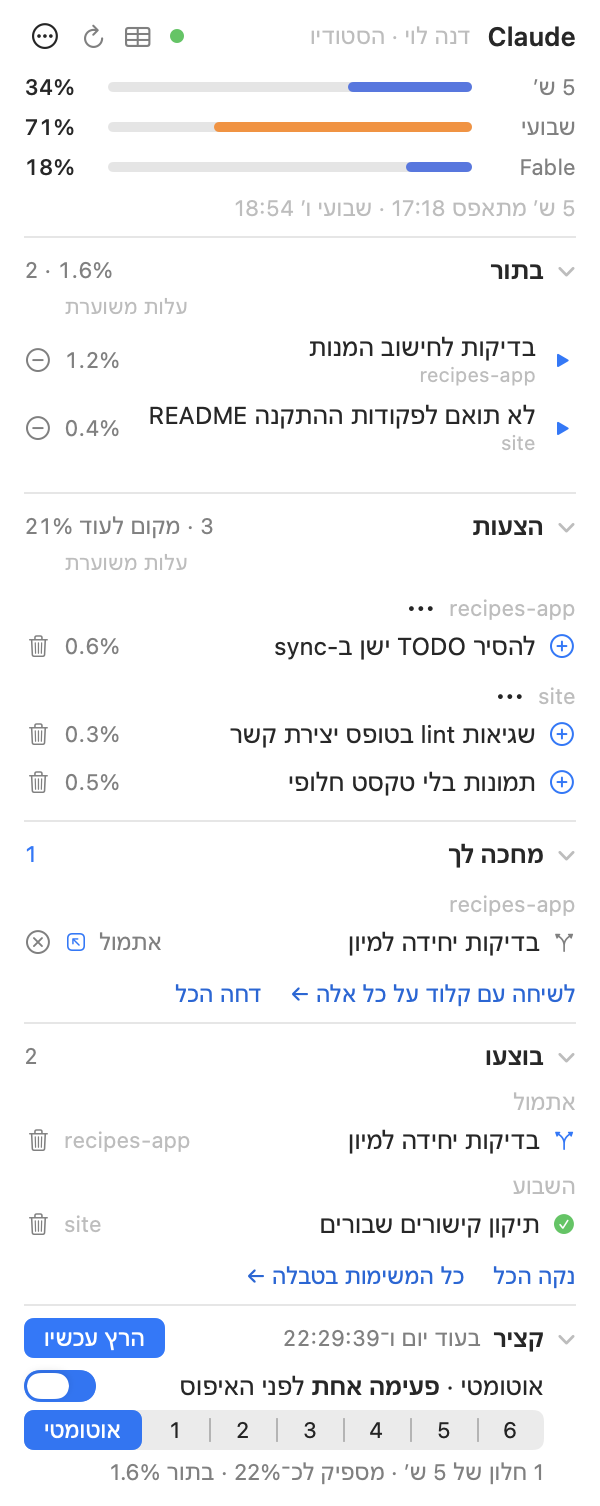
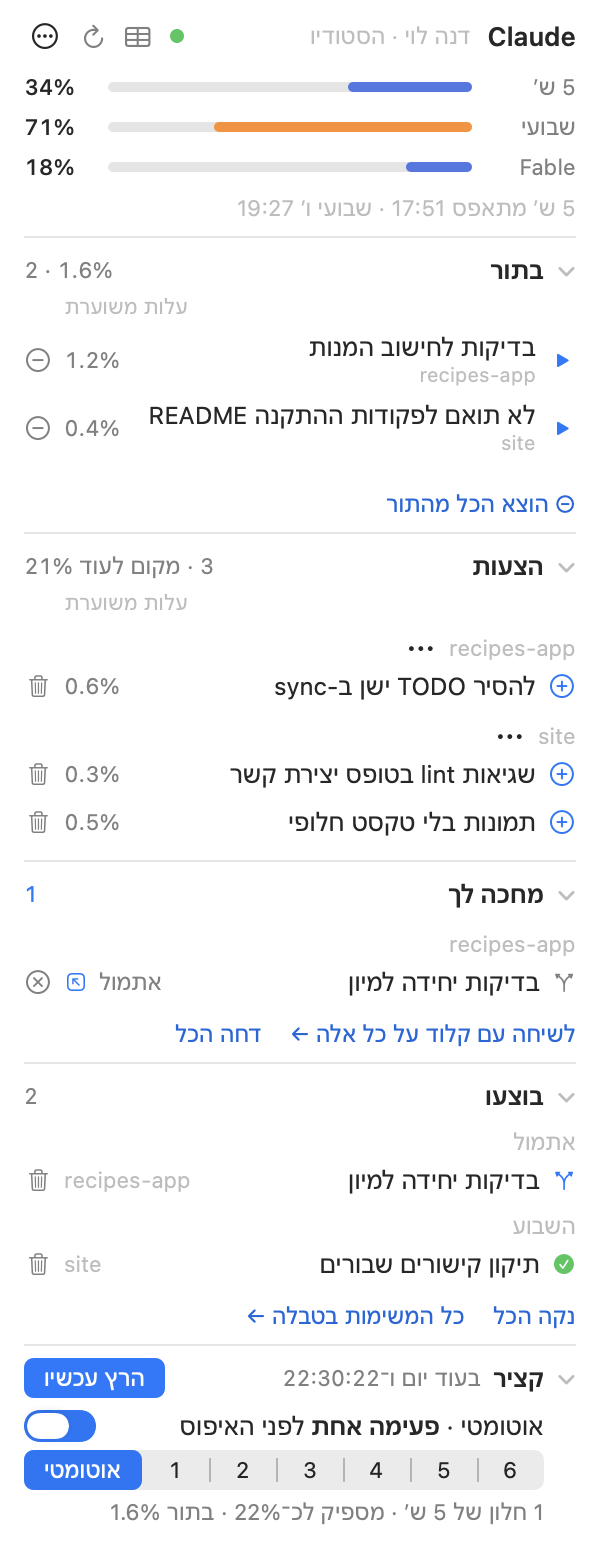
Take everything out of the queue at once; the queue's scroller off the buttons
The queue was the last list on the system scroller, which sat over the ⊖
buttons; it now scrolls in ScrollingList like the others, its indicator in a
gutter of its own. "⊖ Take everything out of the queue" under the list (and
"Take them all out" on the window's Queue tab) asks inline, then
`queue-clear`: every open task goes back to the proposals and the owner's
dragged order is forgotten. Refused in unattended runs.

diff --git a/QuotaHarvest.swift b/QuotaHarvest.swift
@@ -1198,6 +1198,7 @@ protocol WidgetActions: AnyObject {
     func clearDone(_ task: HTask)
     func restoreDone(_ task: HTask)
     func clearAllDone()
+    func unqueueAll()
     func showAllTasks()
     func talk()
     func showHelp()
@@ -1275,6 +1276,8 @@ final class WidgetModel: ObservableObject {
     @Published var rejecting: String?
     /// "נקה הכל" under the done list, asking before it clears.
     @Published var confirmingClear = false
+    /// "הוצא הכל מהתור" under the queue, asking before it empties it.
+    @Published var confirmingUnqueue = false
     /// Why the last reject didn't go through, shown under the waiting list (and in the all-tasks window)
     /// until the next try or a dismiss.
     @Published var rejectProblem: String?
@@ -1287,6 +1290,7 @@ final class WidgetModel: ObservableObject {
         }
         if rejecting != nil { rejecting = nil }
         if confirmingClear { confirmingClear = false }
+        if confirmingUnqueue { confirmingUnqueue = false }
     }
 
     var harvestActive: Bool { running || detachedRun || externalRun }
@@ -1440,8 +1444,9 @@ struct PanelView: View {
             EmptyLine(text: L("התור ריק — ⊕ ליד הצעה מכניס אותה לתור", "The queue is empty — ⊕ next to a proposal puts it in"))
         } else {
             PctCaption()
+            // The list's own slim scroller, in a gutter of its own: the system one sat over the ⊖ buttons.
             if m.listing.queue.count > 8 {
-                ScrollView { orderedQueue }.frame(height: 220)
+                ScrollingList(height: 220) { orderedQueue }
             } else {
                 orderedQueue
             }
@@ -1450,6 +1455,16 @@ struct PanelView: View {
                     m.actions?.resetQueueOrder()
                 }
                 .buttonStyle(.link).font(.system(size: 11)).padding(.top, 3)
+            }
+            if m.confirmingUnqueue {
+                ConfirmLine(text: L("להוציא את כל ה־\(m.listing.queue.count) מהתור? הן חוזרות להצעות ולא ירוצו עד שתחזיר אותן.",
+                                    "Take all \(m.listing.queue.count) out of the queue? They go back to the proposals and won't run until you queue them again."),
+                            action: L("הוצא", "Take out"), onConfirm: { m.actions?.unqueueAll() },
+                            onCancel: { m.confirmingUnqueue = false })
+            } else {
+                Button(L("⊖ הוצא הכל מהתור", "⊖ Take everything out of the queue")) { m.confirmingUnqueue = true }
+                    .buttonStyle(.link).font(.system(size: 11)).padding(.top, 3)
+                    .help(L("כל המשימות חוזרות להצעות; ⊕ ליד הצעה מחזיר אותה", "Every task goes back to the proposals; ⊕ next to one brings it back"))
             }
         }
     }
@@ -1527,15 +1542,10 @@ struct PanelView: View {
                 DoneRow(task: t, onOpen: { m.actions?.openDone(t) }, onClear: { m.actions?.clearDone(t) })
             }
             if m.confirmingClear {
-                HStack(spacing: 8) {
-                    Text(L("לנקות את \(m.listing.done.count) מהרשימה? הענפים נשארים.",
-                           "Clear all \(m.listing.done.count) from the list? Branches stay."))
-                        .font(.system(size: 11)).foregroundStyle(.secondary).fixedSize(horizontal: false, vertical: true)
-                    Spacer(minLength: 4)
-                    Button(L("נקה", "Clear")) { m.actions?.clearAllDone() }.controlSize(.small)
-                    Button(L("ביטול", "Cancel")) { m.confirmingClear = false }.controlSize(.small)
-                }
-                .padding(.top, 4)
+                ConfirmLine(text: L("לנקות את \(m.listing.done.count) מהרשימה? הענפים נשארים.",
+                                    "Clear all \(m.listing.done.count) from the list? Branches stay."),
+                            action: L("נקה", "Clear"), onConfirm: { m.actions?.clearAllDone() },
+                            onCancel: { m.confirmingClear = false })
             } else {
                 HStack(spacing: 14) {
                     Button(L("נקה הכל", "Clear all")) { m.confirmingClear = true }
@@ -2236,6 +2246,24 @@ struct RejectForm: View {
     }
 }
 
+/// A bulk action's question, in place of the link that asked it — no modal alert.
+struct ConfirmLine: View {
+    let text: String
+    let action: String
+    let onConfirm: () -> Void
+    let onCancel: () -> Void
+
+    var body: some View {
+        HStack(spacing: 8) {
+            Text(text).font(.system(size: 11)).foregroundStyle(.secondary).fixedSize(horizontal: false, vertical: true)
+                .frame(maxWidth: .infinity, alignment: .leading)
+            Button(action, action: onConfirm).controlSize(.small)
+            Button(L("ביטול", "Cancel"), action: onCancel).controlSize(.small)
+        }
+        .padding(.top, 4)
+    }
+}
+
 /// Why something the owner asked for didn't happen — stays until dismissed or the next try.
 struct ProblemLine: View {
     let text: String
@@ -2378,10 +2406,15 @@ final class AllTasksModel: ObservableObject {
     @Published var search = ""
     @Published var showCleared = false
     @Published var selection: String? {
-        didSet { if rejecting != nil && rejecting != selection { rejecting = nil } }
+        didSet {
+            if rejecting != nil && rejecting != selection { rejecting = nil }
+            if confirmingUnqueue && selection != nil { confirmingUnqueue = false }
+        }
     }
     /// The reject form in the details: a row's key, or "all" for everything that waits.
     @Published var rejecting: String?
+    /// "הוצא את כולן מהתור" on the queue tab, asking in the details before it empties the queue.
+    @Published var confirmingUnqueue = false
     @Published var sortOrder = [KeyPathComparator(\TaskLine.stage), KeyPathComparator(\TaskLine.runOrder),
                                 KeyPathComparator(\TaskLine.age)]
     /// Off for snapshots, so rendering a preview never changes the owner's choice of tab.
@@ -2509,6 +2542,11 @@ struct AllTasksView: View {
                 ForEach(TaskFilter.allCases) { f in Text("\(f.title) \(t.count(f))").tag(f) }
             }
             .pickerStyle(.segmented).labelsHidden().fixedSize()
+            if t.filter == .queue && !m.listing.queue.isEmpty {
+                Button(L("הוצא את כולן מהתור", "Take them all out")) { t.selection = nil; t.confirmingUnqueue = true }
+                    .controlSize(.small)
+                    .help(L("כל המשימות חוזרות להצעות; \"הכנס לתור\" מחזיר כל אחת", "Every task goes back to the proposals; \"Put in the queue\" brings each back"))
+            }
             if t.filter == .waiting && !m.listing.needsYou.isEmpty {
                 Button(L("דחה את כולן", "Reject them all")) { t.selection = nil; t.rejecting = "all" }
                     .controlSize(.small)
@@ -2616,7 +2654,14 @@ struct AllTasksView: View {
                 ProblemLine(text: problem) { m.rejectProblem = nil }
                     .padding(EdgeInsets(top: 4, leading: 14, bottom: 0, trailing: 14))
             }
-            if t.rejecting == "all" {
+            if t.confirmingUnqueue {
+                ConfirmLine(text: L("להוציא את כל ה־\(m.listing.queue.count) מהתור? הן חוזרות להצעות ולא ירוצו עד שתחזיר אותן.",
+                                    "Take all \(m.listing.queue.count) out of the queue? They go back to the proposals and won't run until you queue them again."),
+                            action: L("הוצא", "Take out"),
+                            onConfirm: { t.confirmingUnqueue = false; m.actions?.unqueueAll() },
+                            onCancel: { t.confirmingUnqueue = false })
+                    .padding(EdgeInsets(top: 10, leading: 14, bottom: 10, trailing: 14))
+            } else if t.rejecting == "all" {
                 RejectForm(blocked: false, count: m.listing.needsYou.count,
                            onReject: { m.actions?.rejectAllWaiting(reason: $0) },
                            onCancel: { t.rejecting = nil })
@@ -2742,6 +2787,7 @@ struct HelpView: View {
             "בכותרת: כמה משימות, וכמה אחוזים כולן יחד.",
             "**הסדר ברשימה הוא סדר הביצוע** — העליונה רצה ראשונה. בלי התערבות שלך הסדר הוא לפי חשיבות, ובאותה חשיבות הגדולה קודם.",
             "**גרירה:** תופסים משימה ומשחררים על משימה אחרת — היא נוחתת מעליה; מתחת לאחרונה — היא עוברת לסוף. **\"חזרה לסדר האוטומטי\"** מבטל את מה שגררת.",
+            "**\"⊖ הוצא הכל מהתור\"** מתחת לרשימה — כל המשימות חוזרות להצעות בבת אחת (אחרי שאלה קצרה במקום), ו־⊕ מחזיר כל אחת.",
         ]),
         ("הצעות", [
             "משימות שעוד לא אישרת: רעיונות שסוכן רשם כשעבד לבד, או משימות שהשהית. הן לא ירוצו.",
@@ -2768,7 +2814,7 @@ struct HelpView: View {
             "**כפתור הטבלה** בראש הווידג'ט (או **כל המשימות…** בתפריט ⋯, או \"כל המשימות בטבלה\" מתחת ל\"בוצעו\") פותח חלון עם כל המשימות מכל הפרויקטים, בטבלה אחת.",
             "למעלה: לשוניות עם מספרים — הכל, בתור, הצעות, מחכה לך, בוצעו, הוסרו (\"הכל\" הוא כל מה שלא הוסר) — חיפוש, ו\"**גם מה שנוקה**\" שמראה גם משימות שניקית מ\"בוצעו\".",
             "העמודות: מצב (במשימה שבתור — גם המקום שלה בתור), משימה, פרויקט, עדיפות, מורכבות, עלות משוערת, מתי נוספה, עדכון אחרון וענף. לחיצה על כותרת עמודה ממיינת לפיה.",
-            "**בחירת שורה** מראה למטה את הפרטים ואת מה שאפשר לעשות: להכניס לתור או להוציא, למחוק הצעה, לבדיקה ולמיזוג או לדחות, לפתוח את הסשן שביצע, לנקות או להחזיר ל\"בוצעו\", ולפתוח את BACKLOG.md. אותן פעולות בלחיצה ימנית; לחיצה כפולה פותחת את הבדיקה או את הסשן. דחייה פותחת את אותו טופס סיבות כמו בווידג'ט, ובלשונית \"מחכה לך\" יש גם \"דחה את כולן\". להריץ — רק מהווידג'ט.",
+            "**בחירת שורה** מראה למטה את הפרטים ואת מה שאפשר לעשות: להכניס לתור או להוציא, למחוק הצעה, לבדיקה ולמיזוג או לדחות, לפתוח את הסשן שביצע, לנקות או להחזיר ל\"בוצעו\", ולפתוח את BACKLOG.md. אותן פעולות בלחיצה ימנית; לחיצה כפולה פותחת את הבדיקה או את הסשן. דחייה פותחת את אותו טופס סיבות כמו בווידג'ט, בלשונית \"מחכה לך\" יש גם \"דחה את כולן\", ובלשונית \"בתור\" — \"הוצא את כולן מהתור\". להריץ — רק מהווידג'ט.",
         ]),
         ("קציר (בתחתית)", [
             "ספירה לאחור עד שהקציר האוטומטי מתחיל — רק כשהמתג \"אוטומטי\" דלוק. הוא רץ ב**פעימות**: כל פעימה היא חלון של 5 שעות, והאחרונה נגמרת לפני האיפוס השבועי. כמה פעימות — בוחרים בשורה (1–6), או \"אוטומטי\": כמה שצריך כדי לנצל את מה שנשאר מהשבוע על מה שבתור.",
@@ -2822,6 +2868,7 @@ struct HelpView: View {
             "In the header: how many tasks, and how many percent they come to together.",
             "**The list's order is the order they run in** — the top one runs first. Left alone, it's by priority, and within a priority the bigger task first.",
             "**Dragging:** grab a task and drop it on another one — it lands above it; below the last one — it goes last. **\"Back to the automatic order\"** undoes what you dragged.",
+            "**\"⊖ Take everything out of the queue\"** under the list — every task goes back to the proposals at once (after a short question in place), and ⊕ brings each one back.",
         ]),
         ("Proposals", [
             "Tasks you haven't approved yet: ideas an agent noted while working on its own, or tasks you paused. They don't run.",
@@ -2848,7 +2895,7 @@ struct HelpView: View {
             "**The table button** at the top of the widget (or **All tasks…** in the ⋯ menu, or \"All tasks in a table\" under Done) opens a window with every task of every project in one table.",
             "At the top: tabs with counts — All, Queue, Proposals, Waiting, Done, Removed (\"All\" is everything not removed) — a search, and **\"Show cleared\"**, which also shows the tasks you cleared from Done.",
             "The columns: status (for a queued task, also its place in the queue), task, project, priority, complexity, estimated cost, when it was added, the last update and the branch. Clicking a column's title sorts by it.",
-            "**Selecting a row** shows its details below, with what can be done: put it in the queue or take it out, delete a proposal, review and merge or reject, open the session that did it, clear it from Done or bring it back, and open BACKLOG.md. The same actions are on a right-click; a double-click opens the review or the session. Rejecting opens the same reasons form as in the widget, and the Waiting tab also has \"Reject them all\". Running happens only from the widget.",
+            "**Selecting a row** shows its details below, with what can be done: put it in the queue or take it out, delete a proposal, review and merge or reject, open the session that did it, clear it from Done or bring it back, and open BACKLOG.md. The same actions are on a right-click; a double-click opens the review or the session. Rejecting opens the same reasons form as in the widget, the Waiting tab also has \"Reject them all\", and the Queue tab \"Take them all out\". Running happens only from the widget.",
         ]),
         ("Harvest (at the bottom)", [
             "A countdown to the start of the automatic harvest — only while the \"automatic\" switch is on. It runs in **pulses**: each pulse is one 5-hour window, and the last one ends before the weekly reset. How many — you choose in the row (1–6), or \"Auto\": as many as it takes to spend what's left of the week on what's queued.",
@@ -5076,6 +5123,18 @@ final class AppDelegate: NSObject, NSApplicationDelegate, WidgetActions, UNUserN
         return what + ((reply?["error"] as? String) ?? L("המנוע לא ענה.", "the engine didn't answer."))
     }
 
+    /// "הוצא הכל מהתור", once its inline question is answered: every queued task back to the proposals.
+    func unqueueAll() {
+        model.confirmingUnqueue = false
+        allTasksModel.confirmingUnqueue = false
+        guard !model.listing.queue.isEmpty else { return }
+        var l = model.listing
+        l.proposals = l.queue + l.proposals
+        l.queue = []
+        model.listing = l
+        runEngine(["queue-clear"]) { [weak self] _ in self?.refreshListing() }
+    }
+
     /// "נקה הכל" under the done list, once its inline question is answered.
     func clearAllDone() {
         model.confirmingClear = false
@@ -5646,8 +5705,14 @@ final class AppDelegate: NSObject, NSApplicationDelegate, WidgetActions, UNUserN
     }
 
     /// `--rejecting [all]` on the snapshots: the reject form open — under the first waiting row, or for all.
+    /// `--confirming unqueue|clear`: the inline question of "הוצא הכל מהתור" / "נקה הכל".
     func snapshotForms() {
         let args = CommandLine.arguments
+        if let i = args.firstIndex(of: "--confirming"), i + 1 < args.count {
+            model.confirmingUnqueue = args[i + 1] == "unqueue"
+            model.confirmingClear = args[i + 1] == "clear"
+            allTasksModel.confirmingUnqueue = args[i + 1] == "unqueue"
+        }
         guard let i = args.firstIndex(of: "--rejecting") else { return }
         let all = i + 1 < args.count && args[i + 1] == "all"
         model.rejecting = all ? "all" : model.listing.needsYou.first?.id

diff --git a/harvest/home/bin/harvest.py b/harvest/home/bin/harvest.py
@@ -926,6 +926,27 @@ def cmd_queue_order(a):
           "queue": [task_key(t) for t in ordered_queue([t for t in tasks if t["status"] == "open"])]})
 
 
+def cmd_queue_clear(a):
+    """Empties the queue in one step: every queued (open) task goes back to the proposals, where it waits until
+    the owner queues it again, and the owner's dragged order goes with it. Only the owner: never from an
+    unattended run."""
+    if os.environ.get("HARVEST_UNATTENDED"):
+        fail("only the owner empties the queue")
+    moved = []
+    for repo in projects():
+        # One section at a time from a fresh read: adding a missing status line moves the lines below it.
+        while True:
+            lines, tasks = parse_backlog(repo)
+            t = next((t for t in tasks if (t["fields"].get("status") or "open") == "open"), None)
+            if t is None:
+                break
+            write_fields(repo, lines, t, {"status": "proposed"})
+            moved.append({"project": repo, "title": t["title"]})
+    if os.path.exists(QUEUE_ORDER):
+        os.remove(QUEUE_ORDER)
+    emit({"ok": True, "unqueued": moved})
+
+
 def cmd_set_status(a):
     repo = os.path.abspath(a.project)
     if a.status not in STATUSES:
@@ -2353,6 +2374,8 @@ def main():
     p.add_argument("keys", nargs="*", metavar="PROJECT::TITLE")
     p.add_argument("--reset", action="store_true")
     p.set_defaults(fn=cmd_queue_order)
+
+    sub.add_parser("queue-clear").set_defaults(fn=cmd_queue_clear)
 
     p = sub.add_parser("proposals")
     p.add_argument("project"); p.add_argument("state", choices=("on", "off"))

diff --git a/harvest/home/bin/test_harvest.py b/harvest/home/bin/test_harvest.py
@@ -115,6 +115,24 @@ class Harvest(unittest.TestCase):
         self.usage(reset_in_h=0.2)
         self.assertEqual(self.run_engine("plan")["reason"], "cutoff-near")
 
+    def test_the_owner_empties_the_queue(self):
+        self.add("One")
+        self.add("Two")
+        self.add("An idea", status="proposed")
+        self.run_engine("set-status", self.repo, "Two", "done", "--result", "בוצע")
+        self.add("Two")  # the same title again, queued: only this one moves
+        other = self.make_repo("beta")
+        self.run_engine("add", other, "--title", "Three", "--details", "x", "--complexity", "low")
+        self.run_engine("queue-order", self.repo + "::Two", self.repo + "::One")
+        self.run_engine("queue-clear", env=dict(self.env, HARVEST_UNATTENDED="1"), code=2)
+        out = self.run_engine("queue-clear")
+        self.assertEqual(sorted(x["title"] for x in out["unqueued"]), ["One", "Three", "Two"])
+        listing = self.run_engine("list", "--all")
+        self.assertEqual(listing["queue"], [])
+        self.assertEqual(sorted(t["title"] for t in listing["proposals"]), ["An idea", "One", "Three", "Two"])
+        self.assertEqual([t["status"] for t in listing["all"] if t["title"] == "Two"], ["done", "proposed"])
+        self.assertFalse(os.path.exists(os.path.join(self.home, "queue-order.json")))
+
     def test_the_owner_can_order_the_queue(self):
         self.add("Urgent big", tokens=90000)
         self.run_engine("set-status", self.repo, "Urgent big", "open")

diff --git a/SPEC.md b/SPEC.md
@@ -94,7 +94,8 @@ frame saved as `QuotaHarvestAllTasks`; the drop-down panel hides first in menu b
   with an unmerged branch — the same `RejectForm`, in place of the details), open the session that did it,
   clear from or back to the Done list, open BACKLOG.md. The same actions on a right-click; a double-click
   opens the review (or answer) or the session. No run controls: running stays in the panel.
-- On the מחכה לך tab, "דחה את כולן" beside the tabs opens the form for everything that waits.
+- On the מחכה לך tab, "דחה את כולן" beside the tabs opens the form for everything that waits; on the בתור
+  tab, "הוצא את כולן מהתור" asks inline in the details, then `queue-clear`.
 - `--snapshot-tasks <png> [--filter <tab>] [--select <row>] [--cleared] [--demo] [--light] [--he|--en]`
   renders it at its opening size (1100 × 640) and exits.
 
@@ -138,7 +139,10 @@ open or a harvest runs, else every 2 min):
   an accent line — `WidgetModel.queueDropTarget`) onto another row to land above it, or
   below the last to go last; the whole new order is sent at once. "↺ Back to the automatic
   order" (shown while any task is `placed`) runs `queue-order --reset`. Refused in
-  unattended runs. More than 8 rows scroll in 220 pt. Each row: title, cost as % of the weekly
+  unattended runs. More than 8 rows scroll in 220 pt (`ScrollingList`, like the other lists — the system
+  scroller covered the ⊖ buttons). "⊖ הוצא הכל מהתור" under the list asks inline (`ConfirmLine`: the count,
+  "הוצא" / "ביטול") and runs `queue-clear`: every open task becomes `proposed` and the owner's order is
+  forgotten; refused in unattended runs. Each row: title, cost as % of the weekly
   quota (the engine's estimate ÷ its calibrated tokens-per-point; the estimate is
   turns × (the project's starting context + growth) — measured per project from its
   sessions, predicted from its CLAUDE.md size until then; the tooltip shows both parts), ▶ to run only that
@@ -191,7 +195,7 @@ open or a harvest runs, else every 2 min):
   when one of its tasks leaves the list; the proposals' ⋯ sits right after the project's name. Above the
   queue and the proposals one muted line says what the % is (estimated token cost, of the weekly quota); a
   task's % has the token estimate in its tooltip.
-- Lists of more than 7 tasks (בוצעו: 8) scroll inside a 280 pt (240 pt) frame — `ScrollingList`: the
+- Lists of more than 7 tasks (בוצעו and בתור: 8) scroll inside a 280 pt (בוצעו 240, בתור 220) frame — `ScrollingList`: the
   system scroller is hidden (it always sits on the right, over the rows' buttons) and a slim indicator is
   drawn in a 10 pt gutter of its own at the trailing edge — right in English, left in Hebrew.
 

diff --git a/AGENTS.md b/AGENTS.md
@@ -24,7 +24,7 @@ Nothing personal goes into `harvest/`. Who the owner is — name, language, emai
 - The engine and the installer have tests; both must pass:
   `python3 harvest/home/bin/test_harvest.py` and `python3 harvest/test_install.py` (the latter only ever touches throwaway homes).
 - The app has no test suite. Build it with zero warnings (`swiftc -O -o QuotaHarvest QuotaHarvest.swift`) and look at it — the snapshot flags render a window into a PNG and exit, from saved data, without touching the running app or the network:
-  `--snapshot <png> [--expand] [--not-installed] [--demo]` (the panel; `--demo` uses made-up data, as in `docs/`), `--snapshot-menubar`, `--snapshot-help`, `--snapshot-settings`, `--snapshot-setup [--review] [--done]`, `--snapshot-tasks [--filter <tab>] [--select <row>] [--demo]` (the all-tasks window); `--rejecting [all]` opens the reject form in `--snapshot` and `--snapshot-tasks`; each takes `--light` and `--he` / `--en`. Open the images and read them.
+  `--snapshot <png> [--expand] [--not-installed] [--demo]` (the panel; `--demo` uses made-up data, as in `docs/`), `--snapshot-menubar`, `--snapshot-help`, `--snapshot-settings`, `--snapshot-setup [--review] [--done]`, `--snapshot-tasks [--filter <tab>] [--select <row>] [--demo]` (the all-tasks window); `--rejecting [all]` opens the reject form and `--confirming unqueue|clear` an inline question, in `--snapshot` and `--snapshot-tasks`; each takes `--light` and `--he` / `--en`. Open the images and read them.
 - Only one copy may run: two double the API polling and stack two panels. `./start` quits the previous bare build; the launchd copy is managed by `./install`.
 - A running app: `kill -USR1 $(pgrep -x QuotaHarvest)` shows or hides the panel; `kill -USR2 …` runs the queue now or stops a run.
 - `QuotaHarvest`, `QuotaHarvest.app` and `__pycache__` are build output — never commit them.

diff --git a/README.he.md b/README.he.md
@@ -49,7 +49,7 @@ cd quota-harvest
 
 ## שימוש
 
-- **בתור** — משימות שאישרת, העליונה ראשונה, עם ההערכה כמה מהמכסה השבועית כל אחת תעלה. הן רצות לפי חשיבות, אלא אם גוררים אותן לסדר משלך. ▶ מריץ אחת עכשיו; ⊖ מוציא מהתור.
+- **בתור** — משימות שאישרת, העליונה ראשונה, עם ההערכה כמה מהמכסה השבועית כל אחת תעלה. הן רצות לפי חשיבות, אלא אם גוררים אותן לסדר משלך. ▶ מריץ אחת עכשיו; ⊖ מוציא מהתור (או את כולן בבת אחת).
 - **הצעות** — ⊕ = אישור, פח = מחיקה, ⋯ ליד פרויקט = "בלי הצעות מהפרויקט הזה".
 - **מחכה לך** — ענפים שהסתיימו ושאלות; לחיצה פותחת שיחה שמסבירה את השינוי, ✕ דוחה (לא ממוזג, הענף נשמר בארכיון).
 - **בוצעו** — 30 הימים האחרונים; לחיצה פותחת את השיחה שעשתה את המשימה, ופח (או **"נקה הכל"**) מנקה את הרשימה.

diff --git a/README.md b/README.md
@@ -47,7 +47,7 @@ Anything it replaces is backed up first. At the end it offers a short getting-st
 
 ## Using it
 
-- **Queue** — approved tasks, top first, with each one's estimated share of your weekly quota. They run by priority unless you drag them into your own order. ▶ runs one now; ⊖ takes it out of the queue.
+- **Queue** — approved tasks, top first, with each one's estimated share of your weekly quota. They run by priority unless you drag them into your own order. ▶ runs one now; ⊖ takes it out of the queue (or all of them at once).
 - **Proposals** — ⊕ to approve, the trash can to delete, ⋯ next to a project for "no proposals from this project".
 - **Waiting for you** — finished branches and questions; a click opens a Claude session that walks you through the change, ✕ rejects it (not merged, the branch archived).
 - **Done** — the last 30 days; a click opens the session that did the task, the trash can (or **Clear all**) tidies the list.
